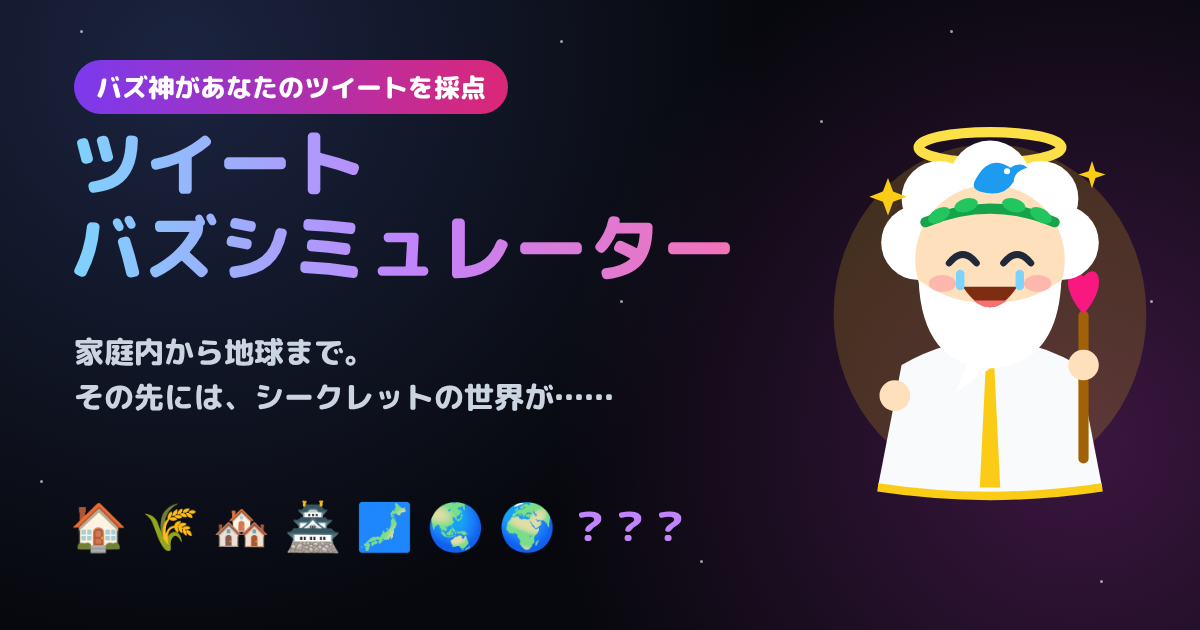
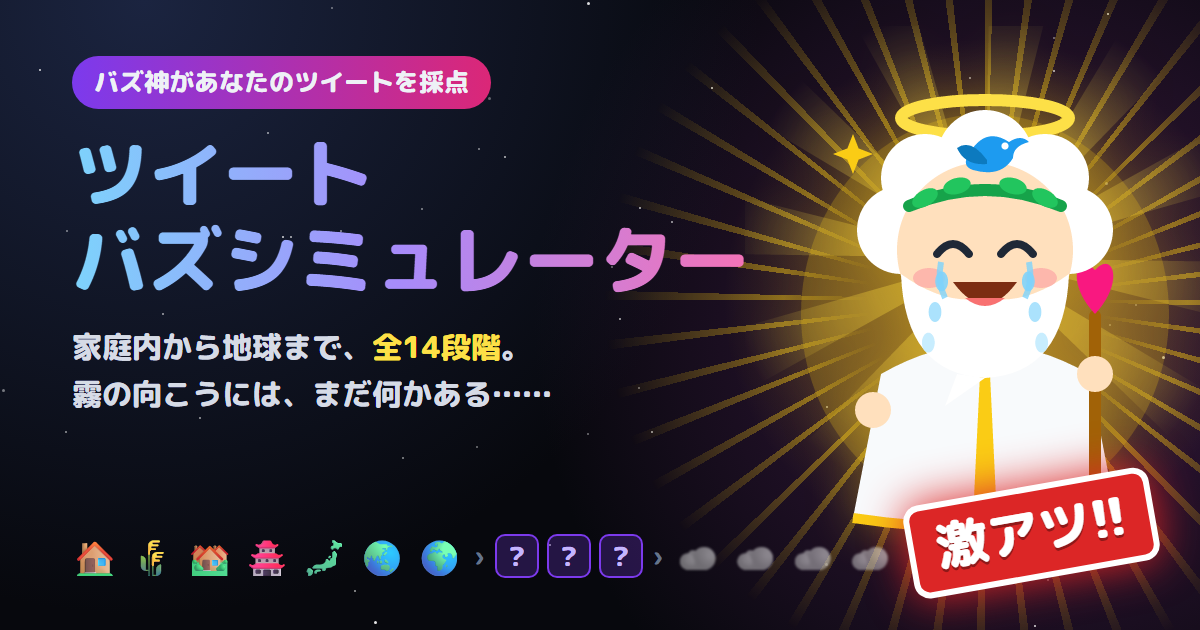
OGP画像を最新版に更新
- 今のバズ神・カットイン風の「激アツ!!」・全14段階と霧を入れた新しいOGP画像
- 画像を作り直すスクリプト（npm run ogp）を追加
- 古いキャッシュを避けるため画像URLに ?v=2 を付け、説明文も全14段階に

diff --git a/src/page.js b/src/page.js
@@ -6,17 +6,17 @@ export const HTML = String.raw`<!doctype html>
 <meta charset="utf-8">
 <meta name="viewport" content="width=device-width, initial-scale=1">
 <title>ツイートバズシミュレーター</title>
-<meta name="description" content="バズ神があなたのツイートを採点。家庭内から地球まで、その先にはシークレットの世界が……">
+<meta name="description" content="バズ神があなたのツイートを採点。家庭内から地球まで、全14段階。霧の向こうには、まだ何かある……">
 <meta property="og:type" content="website">
 <meta property="og:title" content="🚀 ツイートバズシミュレーター">
-<meta property="og:description" content="バズ神があなたのツイートを採点。家庭内から地球まで、その先にはシークレットの世界が……">
+<meta property="og:description" content="バズ神があなたのツイートを採点。家庭内から地球まで、全14段階。霧の向こうには、まだ何かある……">
 <meta property="og:url" content="https://buzz-sim.kira-buzz.workers.dev/">
 <meta property="og:site_name" content="ツイートバズシミュレーター">
-<meta property="og:image" content="https://buzz-sim.kira-buzz.workers.dev/ogp.png">
+<meta property="og:image" content="https://buzz-sim.kira-buzz.workers.dev/ogp.png?v=2">
 <meta property="og:image:width" content="1200">
 <meta property="og:image:height" content="630">
 <meta name="twitter:card" content="summary_large_image">
-<meta name="twitter:image" content="https://buzz-sim.kira-buzz.workers.dev/ogp.png">
+<meta name="twitter:image" content="https://buzz-sim.kira-buzz.workers.dev/ogp.png?v=2">
 <link rel="preconnect" href="https://fonts.googleapis.com">
 <link href="https://fonts.googleapis.com/css2?family=M+PLUS+Rounded+1c:wght@500;800&display=swap" rel="stylesheet">
 <style>

diff --git a/CLAUDE.md b/CLAUDE.md
@@ -21,7 +21,7 @@
   - 段階ごと（home village town pref nation asia earth solar galaxy cluster universe fourd kami glitch）：`{ comments: [100個], replies: [[名前, ID, 本文] 100個] }`
   - tone ごと（tone-roast / tone-cold / tone-warm / tone-good / tone-praise）：`{ comments: { パターン: [...] }, replies: { パターン: [[...], ...] } }`。パターン別リプライは1つをランダムに選ぶ
 - `src/page.js`：画面全体（HTML/CSS/JS）を `String.raw` のテンプレート文字列で返す。BGM・効果音（`Sound`）もここ
-- `public/ogp.png`：OGP画像（1200×630）
+- `public/ogp.png`：OGP画像（1200×630）。`npm run ogp`（= `tools/make-ogp.mjs`）で作り直す。パソコンの Chrome（なければ Edge）で撮影するので、ネット接続が必要。作り直したら page.js の `ogp.png?v=数字` を1つ上げる（Xなどの古いキャッシュを避けるため）
 - `public/gods/*.png`：バズ神のアニメPNG（idle think roast cold warm good praise kami alien）。`npm run gods`（= `tools/make-gods.mjs`）で作り直す。手で編集しない
 - `test/index.spec.js`：テスト（`npx vitest run`）
 - `wrangler.jsonc`：設定（下記）
